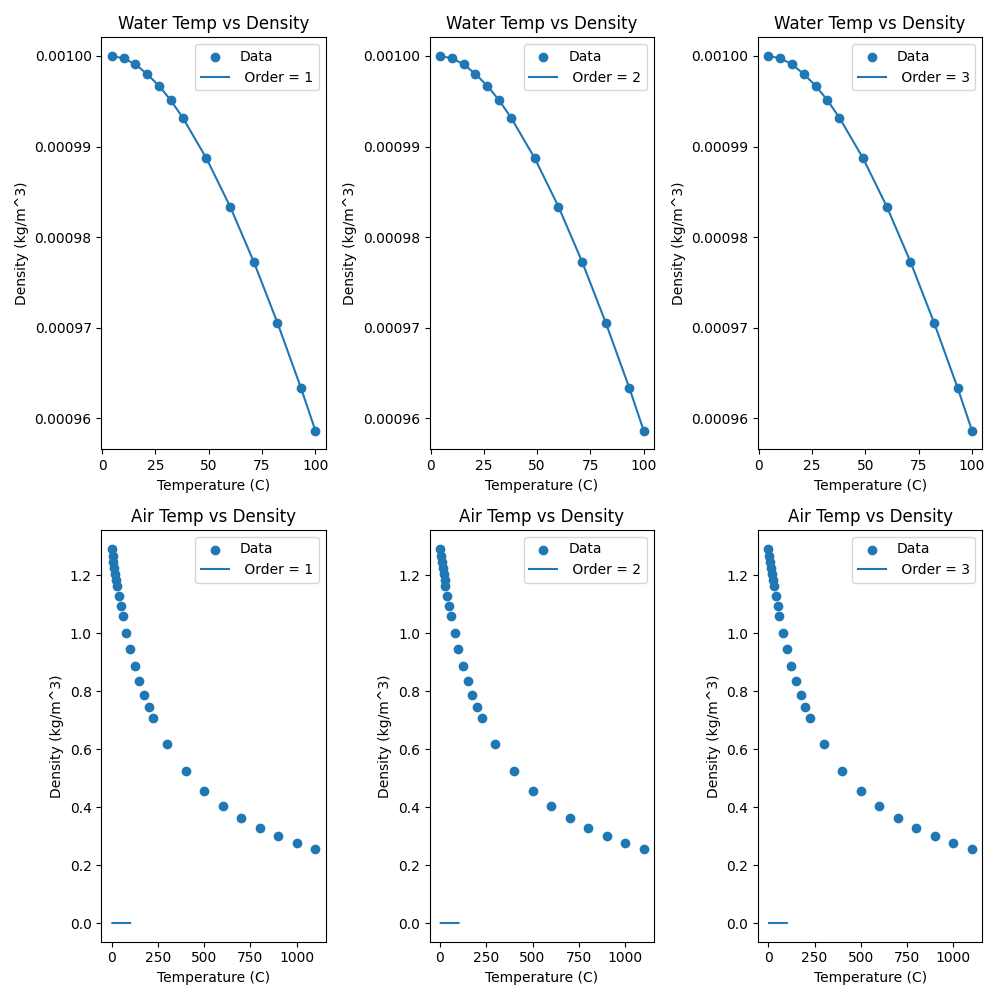
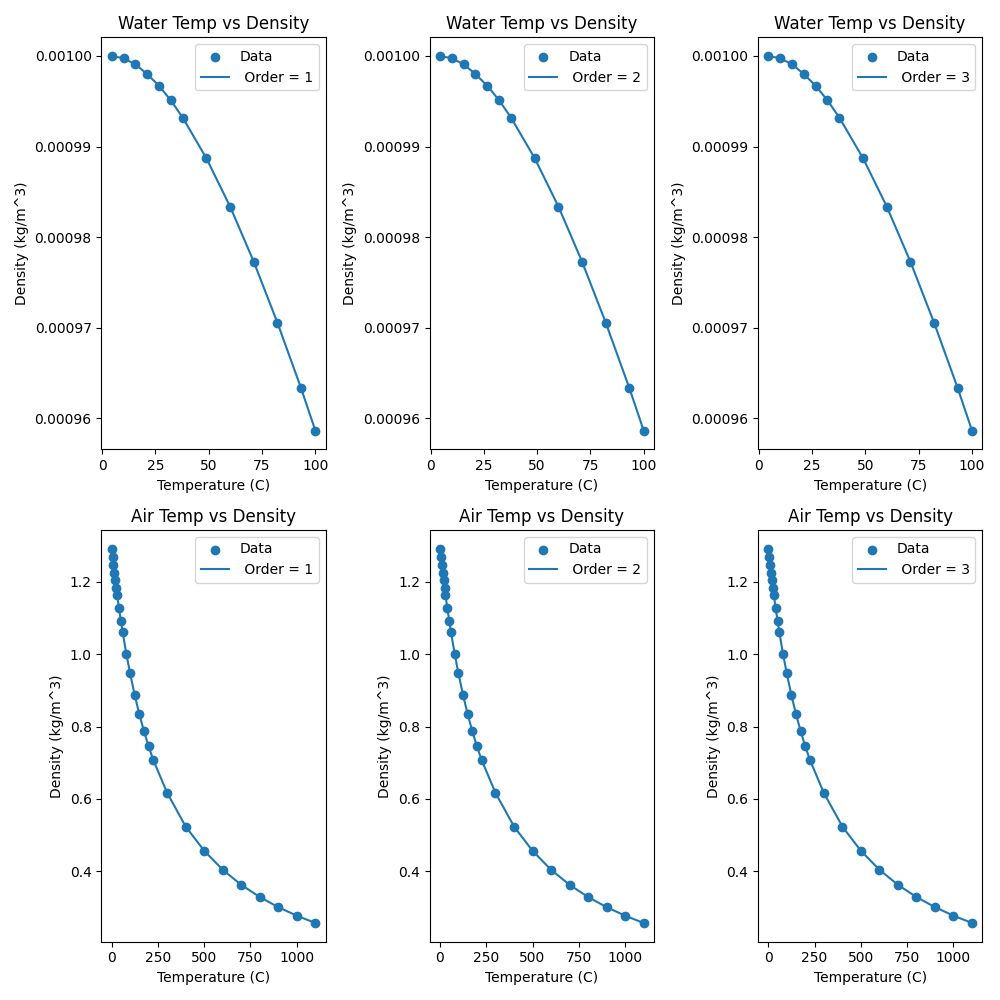
1

diff --git a/src/driver.py b/src/driver.py
@@ -24,7 +24,7 @@ def main():
             spline = spline_function(data[0], data[1],order)
             plt.subplot(2, 3, subplot_index)
             plt.scatter(data[0], data[1], label = 'Data')
-            plt.plot(water_t, water_d, label= f' Order = {order}')
+            plt.plot(data[0], spline(data[0]), label= f' Order = {order}')
             plt.xlabel('Temperature (C)')
             plt.ylabel('Density (kg/m^3)')
             plt.title(f'{plot_name[title_index]} Temp vs Density')
